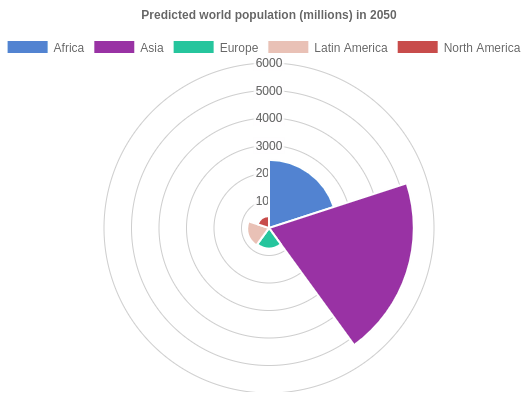
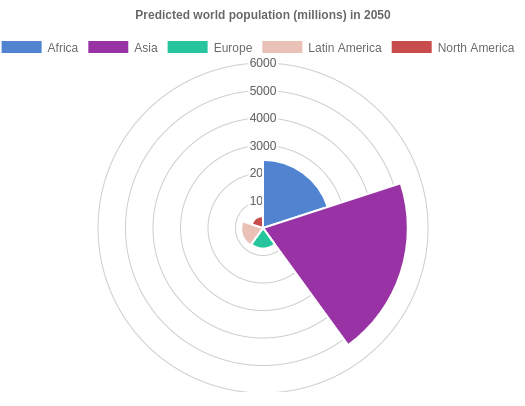
edit polar area chart sample in readme

diff --git a/README.md b/README.md
@@ -247,6 +247,48 @@ export default class App extends Component {
 }
 ```
 
+### Polar area chart
+
+![Polar area chart](https://github.com/codefacebook/react-chartjsx/blob/master/images/polar-area-chart.png)
+
+```
+import { PolarArea } from 'react-chartjsx'
+
+export default class App extends Component {
+  state = {
+    polarAreaChartData: {
+      labels: ["Africa", "Asia", "Europe", "Latin America", "North America"],
+      datasets: [
+        {
+          label: "Population (millions)",
+          backgroundColor: ["#3e95cd", "#8e5ea2","#3cba9f","#e8c3b9","#c45850"],
+          data: [2478,5267,734,784,433]
+        }
+      ]
+    }
+  }
+
+  constructor(props) {
+    super(props)
+  }
+
+  render() {
+    const chartOptions = {
+      responsive: false
+    }
+
+    return (
+      <div>
+        <Radar data={this.state.polarAreaChartData} 
+               options={chartOptions} 
+               width={800} 
+               height={400} />
+      </div>
+    )
+  }
+}
+```
+
 ## Contributing
 
 We'd love to have your helping hand on contributions to react-chartjsx by forking and sending a pull request!
